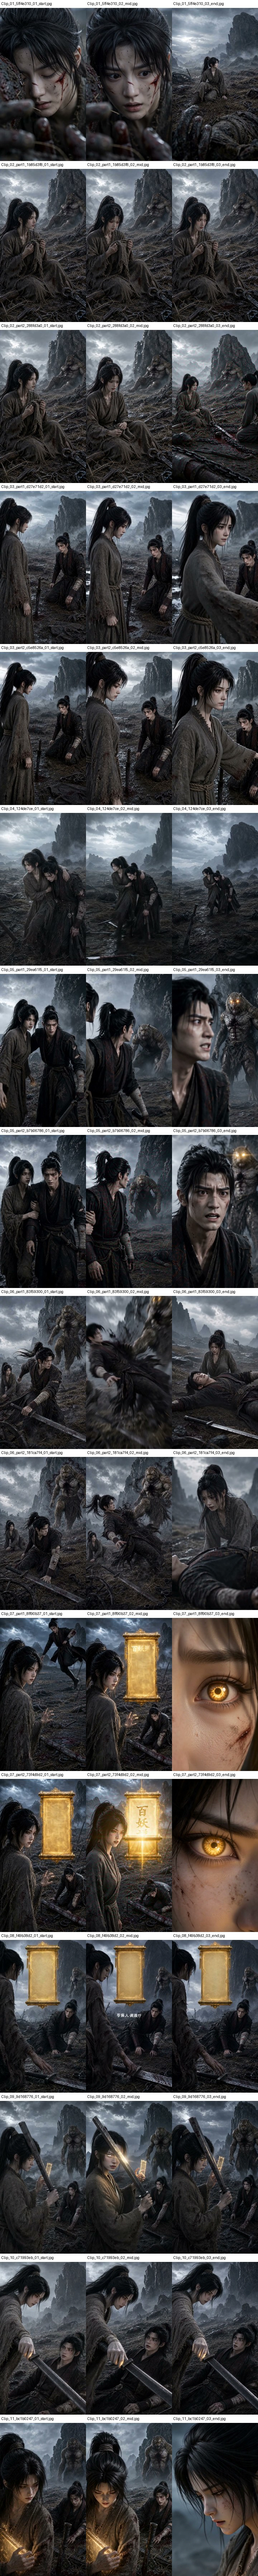
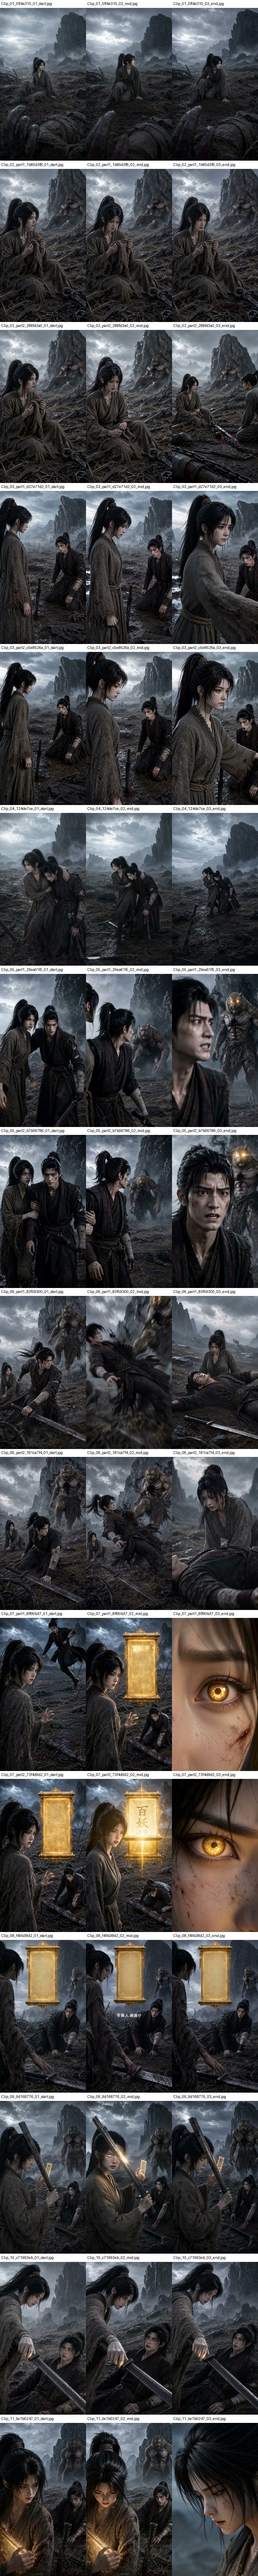
chore: commit newly generated qc files

Changed region(s): [[0.0, 0.0, 1.0, 0.0625]]

diff --git a/创作区/制漫剧/那妖魔是姜大人/生产数据/video_qc/第1集/01_11/video_qc_第1集_01_11.md b/创作区/制漫剧/那妖魔是姜大人/生产数据/video_qc/第1集/01_11/video_qc_第1集_01_11.md
@@ -7,7 +7,7 @@
 
 | Clip | Source MP4 | Duration | Size | Audio | Frames | Notes |
 |---|---|---:|---|---|---:|---|
-| Clip_01 | `Clip_01_死人堆惊醒.mp4` | 10.054s | 720x1280 | yes | 3 |  |
+| Clip_01 | `Clip_01_死人堆惊醒.mp4` | 9.183s | 704x1248 | no | 3 |  |
 | Clip_02_part1 | `Clip_02_看见虎妖尸身_part1.mp4` | 4.063s | 720x1280 | yes | 3 |  |
 | Clip_02_part2 | `Clip_02_看见虎妖尸身_part2.mp4` | 13.096s | 720x1280 | yes | 3 |  |
 | Clip_03_part1 | `Clip_03_镇魔司压迫交易_part1.mp4` | 4.063s | 720x1280 | yes | 3 |  |
@@ -30,7 +30,7 @@
 
 | Seam | dHash | Color dist | Verdict |
 |---|---:|---:|---|
-| Clip_01 → Clip_02 | 29 | 0.0276 | info |
+| Clip_01 → Clip_02 | 29 | 0.0467 | info |
 | Clip_02 → Clip_03 | 34 | 0.035 | info |
 | Clip_03 → Clip_04 | 43 | 0.1694 | info |
 | Clip_04 → Clip_05 | 30 | 0.2502 | info |
@@ -43,11 +43,10 @@
 
 ## Intra-clip identity sampling（近景片内身份漂移 · start/mid/end 抽帧）
 
-- closeup clips checked: 15 · block: 0 · warn: 7（warn=粗筛交人判；block=近景非双帧镜结构远超重画阈值 dHash>44，拒绝验收；精确同人判定走 n2d-review/temporal_consistency.analyze）
+- closeup clips checked: 15 · block: 0 · warn: 6（warn=粗筛交人判；block=近景非双帧镜结构远超重画阈值 dHash>44，拒绝验收；精确同人判定走 n2d-review/temporal_consistency.analyze）
 
 | Clip | Source MP4 | Lens | Max dHash | Verdict |
 |---|---|---|---:|---|
-| Clip_01 | `Clip_01_死人堆惊醒.mp4` | ECU 固定；ELS→LS 缓慢推近 | 38 | warn |
 | Clip_05_part1 | `Clip_05_虎妖诈死复苏_part1.mp4` | CU 硬切；LS 低机位慢推 | 33 | warn |
 | Clip_05_part2 | `Clip_05_虎妖诈死复苏_part2.mp4` | CU 硬切；LS 低机位慢推 | 38 | warn |
 | Clip_06_part1 | `Clip_06_裴长青最后一击被踹飞_part1.mp4` | MS 固定微推；CU 命中帧；MS 低机位 | 34 | warn |
@@ -57,11 +56,10 @@
 
 ## Anchor adherence（中段锚帧消费对账 · storyboard anchor vs generated sample）
 
-- checked: 5 · block: 1 · warn: 1 · skipped: 0
+- checked: 5 · block: 0 · warn: 1 · skipped: 0
 
 | Clip | Anchor | Sample | Δs | dHash | Color dist | Verdict |
 |---|---|---|---:|---:|---:|---|
-| Clip_01 | `出图/第1集/图片/Clip01_mid.png` | mid@5.027 | 2.027 | 37 | 0.0764 | block |
 | Clip_04 | `出图/第1集/图片/Clip04_mid.png` | mid@5.092 | 1.092 | 19 | 0.008 | warn |
 
 Status: pending human review unless the batch manifest marks it accepted.
